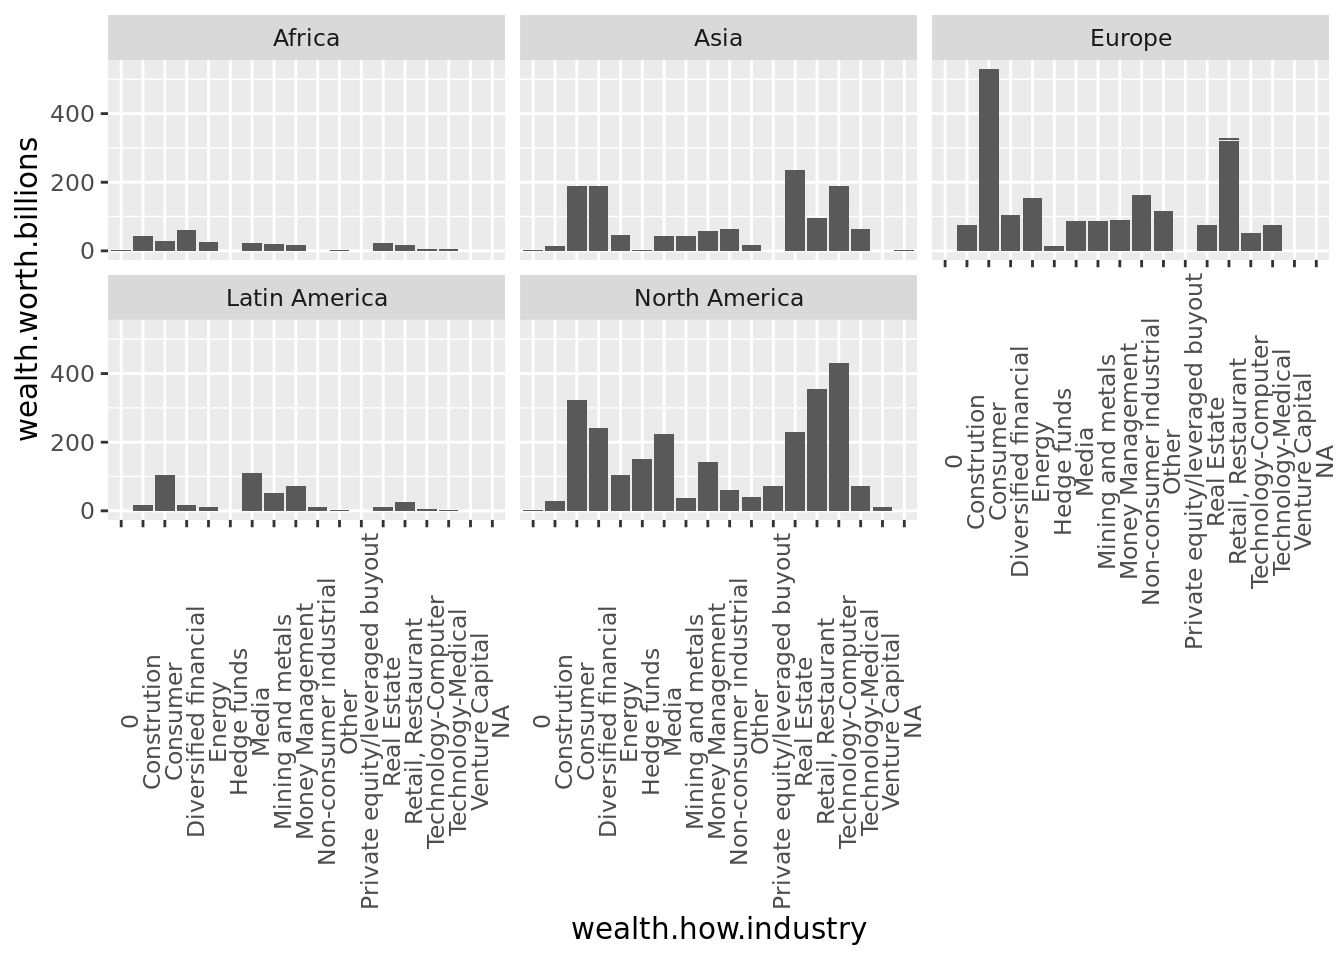
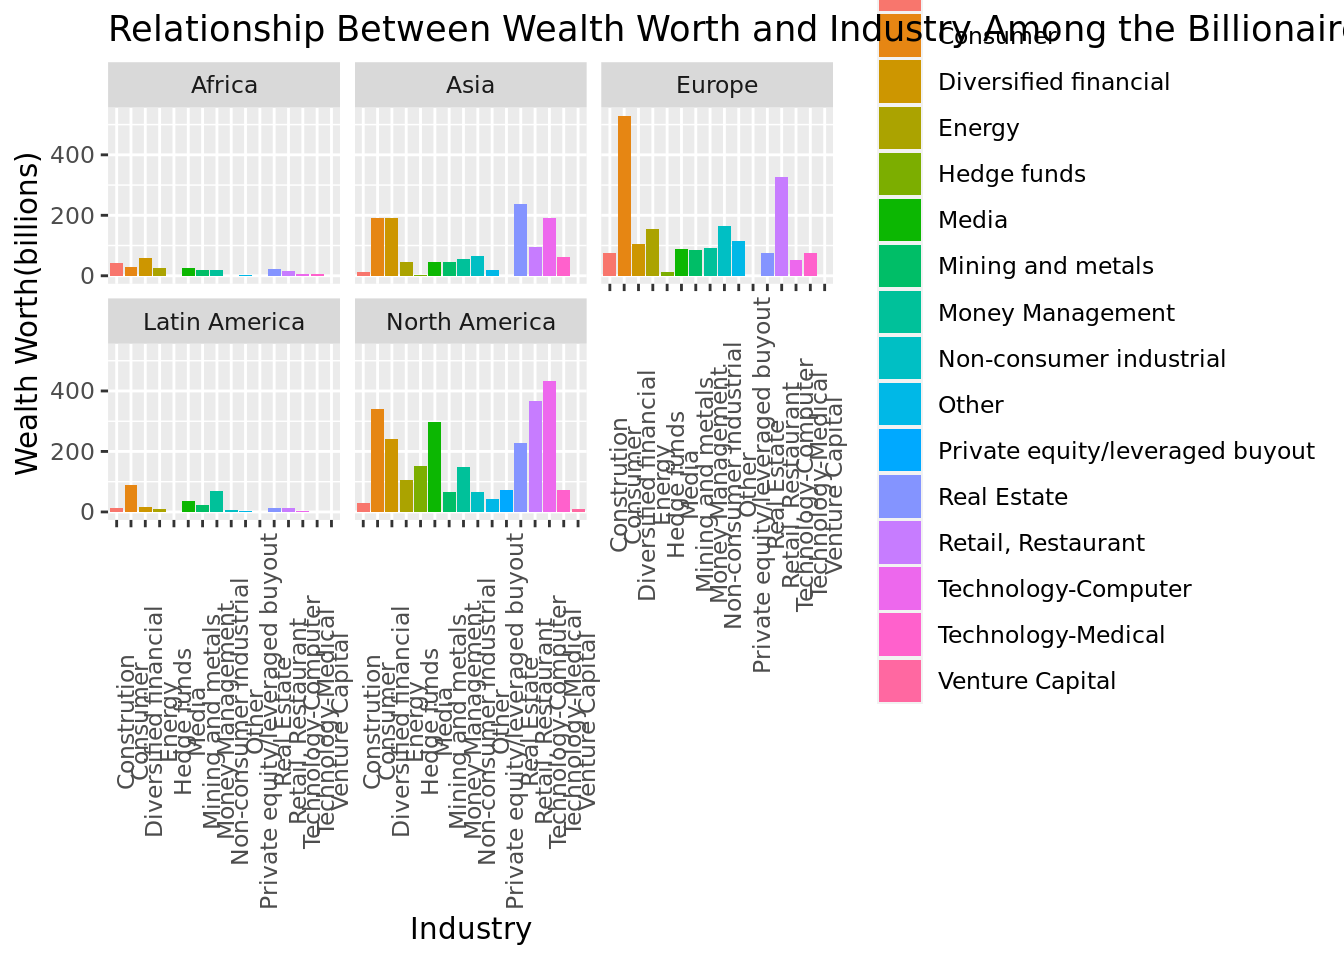
graphs

Changed region(s): [[0.0625, 0.0, 1.0, 1.0], [0.0, 0.1562, 0.0938, 0.5], [0.0312, 0.0938, 0.0938, 0.125]]

diff --git a/docs/report.html b/docs/report.html
@@ -216,35 +216,17 @@ lgl  (3): wealth.how.from emerging, wealth.how.was founder, wealth.how.was p...
 ℹ Specify the column types or set `show_col_types = FALSE` to quiet this message.</code></pre>
 </div>
 <div class="sourceCode cell-code" id="cb4"><pre class="sourceCode r code-with-copy"><code class="sourceCode r"><span id="cb4-1"><a href="#cb4-1" aria-hidden="true" tabindex="-1"></a>df_1 <span class="ot">&lt;-</span> billionaires<span class="sc">|&gt;</span></span>
-<span id="cb4-2"><a href="#cb4-2" aria-hidden="true" tabindex="-1"></a>  <span class="fu">filter</span>(location.citizenship <span class="sc">==</span> <span class="st">"Mexico"</span> <span class="sc">&amp;</span> location.region <span class="sc">==</span> <span class="st">"Latin America"</span> <span class="sc">&amp;</span> year <span class="sc">==</span> <span class="dv">2014</span>) <span class="sc">|&gt;</span></span>
-<span id="cb4-3"><a href="#cb4-3" aria-hidden="true" tabindex="-1"></a>  <span class="fu">select</span>(name, year, location.citizenship, location.region) <span class="sc">|&gt;</span></span>
-<span id="cb4-4"><a href="#cb4-4" aria-hidden="true" tabindex="-1"></a>  <span class="fu">mutate</span>(<span class="at">continent =</span> <span class="fu">if_else</span>(location.region <span class="sc">==</span> <span class="st">"Latin America"</span>, <span class="st">"North America"</span>,location.region))</span>
-<span id="cb4-5"><a href="#cb4-5" aria-hidden="true" tabindex="-1"></a></span>
-<span id="cb4-6"><a href="#cb4-6" aria-hidden="true" tabindex="-1"></a>df_2 <span class="ot">&lt;-</span>billionaires <span class="sc">|&gt;</span></span>
-<span id="cb4-7"><a href="#cb4-7" aria-hidden="true" tabindex="-1"></a>  <span class="fu">filter</span>(year <span class="sc">==</span> <span class="dv">2014</span>) <span class="sc">|&gt;</span></span>
-<span id="cb4-8"><a href="#cb4-8" aria-hidden="true" tabindex="-1"></a>  <span class="fu">select</span>(name, <span class="st">"wealth.worth in billions"</span>, wealth.how.industry, location.region, location.citizenship) <span class="sc">|&gt;</span></span>
-<span id="cb4-9"><a href="#cb4-9" aria-hidden="true" tabindex="-1"></a>  <span class="fu">rename_at</span>(<span class="st">"wealth.worth in billions"</span>, <span class="sc">~</span><span class="st">'wealth.worth.billions'</span>) <span class="sc">|&gt;</span></span>
-<span id="cb4-10"><a href="#cb4-10" aria-hidden="true" tabindex="-1"></a>  <span class="fu">mutate</span>(<span class="at">continent =</span> <span class="fu">if_else</span>(location.region <span class="sc">==</span> <span class="st">"East Asia"</span>, <span class="st">"Asia"</span>,</span>
-<span id="cb4-11"><a href="#cb4-11" aria-hidden="true" tabindex="-1"></a>                     <span class="fu">if_else</span>(location.region <span class="sc">==</span> <span class="st">"South Asia"</span>, <span class="st">"Asia"</span>,</span>
-<span id="cb4-12"><a href="#cb4-12" aria-hidden="true" tabindex="-1"></a>                     <span class="fu">if_else</span>(location.region <span class="sc">==</span> <span class="st">"Middle East/North Africa"</span>, <span class="st">"Africa"</span>,</span>
-<span id="cb4-13"><a href="#cb4-13" aria-hidden="true" tabindex="-1"></a>                     <span class="fu">if_else</span>(location.region <span class="sc">==</span> <span class="st">"Sub-Saharan Africa"</span>, <span class="st">"Africa"</span>, </span>
-<span id="cb4-14"><a href="#cb4-14" aria-hidden="true" tabindex="-1"></a>                             location.region)))))</span>
-<span id="cb4-15"><a href="#cb4-15" aria-hidden="true" tabindex="-1"></a></span>
-<span id="cb4-16"><a href="#cb4-16" aria-hidden="true" tabindex="-1"></a></span>
-<span id="cb4-17"><a href="#cb4-17" aria-hidden="true" tabindex="-1"></a>df_3 <span class="ot">&lt;-</span> <span class="fu">full_join</span>(df_1,df_2)</span></code><button title="Copy to Clipboard" class="code-copy-button"><i class="bi"></i></button></pre></div>
-<div class="cell-output cell-output-stderr">
-<pre><code>Joining, by = c("name", "location.citizenship", "location.region", "continent")</code></pre>
-</div>
-<div class="sourceCode cell-code" id="cb6"><pre class="sourceCode r code-with-copy"><code class="sourceCode r"><span id="cb6-1"><a href="#cb6-1" aria-hidden="true" tabindex="-1"></a>df_1 <span class="sc">|&gt;</span></span>
-<span id="cb6-2"><a href="#cb6-2" aria-hidden="true" tabindex="-1"></a>  <span class="fu">count</span>(continent)</span></code><button title="Copy to Clipboard" class="code-copy-button"><i class="bi"></i></button></pre></div>
-<div class="cell-output cell-output-stdout">
-<pre><code># A tibble: 1 × 2
-  continent         n
-  &lt;chr&gt;         &lt;int&gt;
-1 North America    16</code></pre>
-</div>
-<div class="sourceCode cell-code" id="cb8"><pre class="sourceCode r code-with-copy"><code class="sourceCode r"><span id="cb8-1"><a href="#cb8-1" aria-hidden="true" tabindex="-1"></a>df_2 <span class="sc">|&gt;</span></span>
-<span id="cb8-2"><a href="#cb8-2" aria-hidden="true" tabindex="-1"></a>  <span class="fu">count</span>(continent)</span></code><button title="Copy to Clipboard" class="code-copy-button"><i class="bi"></i></button></pre></div>
+<span id="cb4-2"><a href="#cb4-2" aria-hidden="true" tabindex="-1"></a>  <span class="fu">filter</span>(year <span class="sc">==</span> <span class="dv">2014</span>)<span class="sc">|&gt;</span></span>
+<span id="cb4-3"><a href="#cb4-3" aria-hidden="true" tabindex="-1"></a>  <span class="fu">select</span>(name, <span class="st">"wealth.worth in billions"</span>, wealth.how.industry, location.region, location.citizenship)<span class="sc">|&gt;</span></span>
+<span id="cb4-4"><a href="#cb4-4" aria-hidden="true" tabindex="-1"></a>  <span class="fu">rename_at</span>(<span class="st">"wealth.worth in billions"</span>, <span class="sc">~</span><span class="st">'wealth.worth.billions'</span>)<span class="sc">|&gt;</span></span>
+<span id="cb4-5"><a href="#cb4-5" aria-hidden="true" tabindex="-1"></a>  <span class="fu">mutate</span>(<span class="at">continent =</span> <span class="fu">if_else</span>(location.region <span class="sc">==</span> <span class="st">"East Asia"</span>, <span class="st">"Asia"</span>,</span>
+<span id="cb4-6"><a href="#cb4-6" aria-hidden="true" tabindex="-1"></a>                     <span class="fu">if_else</span>(location.region <span class="sc">==</span> <span class="st">"South Asia"</span>, <span class="st">"Asia"</span>,</span>
+<span id="cb4-7"><a href="#cb4-7" aria-hidden="true" tabindex="-1"></a>                     <span class="fu">if_else</span>(location.region <span class="sc">==</span> <span class="st">"Middle East/North Africa"</span>, <span class="st">"Africa"</span>,</span>
+<span id="cb4-8"><a href="#cb4-8" aria-hidden="true" tabindex="-1"></a>                     <span class="fu">if_else</span>(location.region <span class="sc">==</span> <span class="st">"Sub-Saharan Africa"</span>, <span class="st">"Africa"</span>, </span>
+<span id="cb4-9"><a href="#cb4-9" aria-hidden="true" tabindex="-1"></a>                     <span class="fu">if_else</span>(location.region <span class="sc">==</span> <span class="st">"Latin America"</span> <span class="sc">&amp;</span> location.citizenship <span class="sc">==</span> <span class="st">"Mexico"</span>, <span class="st">"North America"</span>,location.region))))))</span>
+<span id="cb4-10"><a href="#cb4-10" aria-hidden="true" tabindex="-1"></a></span>
+<span id="cb4-11"><a href="#cb4-11" aria-hidden="true" tabindex="-1"></a>df_1<span class="sc">|&gt;</span></span>
+<span id="cb4-12"><a href="#cb4-12" aria-hidden="true" tabindex="-1"></a>  <span class="fu">count</span>(continent)</span></code><button title="Copy to Clipboard" class="code-copy-button"><i class="bi"></i></button></pre></div>
 <div class="cell-output cell-output-stdout">
 <pre><code># A tibble: 5 × 2
   continent         n
@@ -252,32 +234,19 @@ lgl  (3): wealth.how.from emerging, wealth.how.was founder, wealth.how.was p...
 1 Africa           94
 2 Asia            413
 3 Europe          470
-4 Latin America   114
-5 North America   562</code></pre>
-</div>
-<div class="sourceCode cell-code" id="cb10"><pre class="sourceCode r code-with-copy"><code class="sourceCode r"><span id="cb10-1"><a href="#cb10-1" aria-hidden="true" tabindex="-1"></a>df_3 <span class="sc">|&gt;</span></span>
-<span id="cb10-2"><a href="#cb10-2" aria-hidden="true" tabindex="-1"></a>  <span class="fu">count</span>(continent)</span></code><button title="Copy to Clipboard" class="code-copy-button"><i class="bi"></i></button></pre></div>
-<div class="cell-output cell-output-stdout">
-<pre><code># A tibble: 5 × 2
-  continent         n
-  &lt;chr&gt;         &lt;int&gt;
-1 Africa           94
-2 Asia            413
-3 Europe          470
-4 Latin America   114
+4 Latin America    98
 5 North America   578</code></pre>
 </div>
 </div>
 <div class="cell">
-<div class="sourceCode cell-code" id="cb12"><pre class="sourceCode r code-with-copy"><code class="sourceCode r"><span id="cb12-1"><a href="#cb12-1" aria-hidden="true" tabindex="-1"></a>df_3 <span class="sc">|&gt;</span></span>
-<span id="cb12-2"><a href="#cb12-2" aria-hidden="true" tabindex="-1"></a>  <span class="fu">ggplot</span>(</span>
-<span id="cb12-3"><a href="#cb12-3" aria-hidden="true" tabindex="-1"></a>    <span class="fu">aes</span>(<span class="at">x =</span> wealth.how.industry, <span class="at">y =</span> wealth.worth.billions)) <span class="sc">+</span></span>
-<span id="cb12-4"><a href="#cb12-4" aria-hidden="true" tabindex="-1"></a>    <span class="fu">geom_col</span>() <span class="sc">+</span> </span>
-<span id="cb12-5"><a href="#cb12-5" aria-hidden="true" tabindex="-1"></a>  <span class="fu">facet_wrap</span>(<span class="st">"continent"</span>) <span class="sc">+</span></span>
-<span id="cb12-6"><a href="#cb12-6" aria-hidden="true" tabindex="-1"></a>  <span class="fu">theme</span>(<span class="at">axis.text.x =</span> <span class="fu">element_text</span>(<span class="at">angle =</span> <span class="dv">90</span>))</span></code><button title="Copy to Clipboard" class="code-copy-button"><i class="bi"></i></button></pre></div>
-<div class="cell-output cell-output-stderr">
-<pre><code>Warning: Removed 16 rows containing missing values (`position_stack()`).</code></pre>
-</div>
+<div class="sourceCode cell-code" id="cb6"><pre class="sourceCode r code-with-copy"><code class="sourceCode r"><span id="cb6-1"><a href="#cb6-1" aria-hidden="true" tabindex="-1"></a>df_1 <span class="sc">|&gt;</span></span>
+<span id="cb6-2"><a href="#cb6-2" aria-hidden="true" tabindex="-1"></a>  <span class="fu">filter</span>(wealth.how.industry <span class="sc">!=</span> <span class="dv">0</span>) <span class="sc">|&gt;</span></span>
+<span id="cb6-3"><a href="#cb6-3" aria-hidden="true" tabindex="-1"></a>  <span class="fu">ggplot</span>(</span>
+<span id="cb6-4"><a href="#cb6-4" aria-hidden="true" tabindex="-1"></a>    <span class="fu">aes</span>(<span class="at">x =</span> wealth.how.industry, <span class="at">y =</span> wealth.worth.billions, <span class="at">fill =</span> wealth.how.industry)) <span class="sc">+</span></span>
+<span id="cb6-5"><a href="#cb6-5" aria-hidden="true" tabindex="-1"></a>    <span class="fu">geom_col</span>() <span class="sc">+</span> </span>
+<span id="cb6-6"><a href="#cb6-6" aria-hidden="true" tabindex="-1"></a>  <span class="fu">facet_wrap</span>(<span class="st">"continent"</span>) <span class="sc">+</span></span>
+<span id="cb6-7"><a href="#cb6-7" aria-hidden="true" tabindex="-1"></a>  <span class="fu">theme</span>(<span class="at">axis.text.x =</span> <span class="fu">element_text</span>(<span class="at">angle =</span> <span class="dv">90</span>)) <span class="sc">+</span></span>
+<span id="cb6-8"><a href="#cb6-8" aria-hidden="true" tabindex="-1"></a>  <span class="fu">labs</span>(<span class="at">title =</span> <span class="st">"Relationship Between Wealth Worth and Industry Among the Billionaires in each Continent"</span>, <span class="at">x =</span> <span class="st">"Industry"</span>, <span class="at">y =</span> <span class="st">"Wealth Worth(billions)"</span>) </span></code><button title="Copy to Clipboard" class="code-copy-button"><i class="bi"></i></button></pre></div>
 <div class="cell-output-display">
 <p><img src="report_files/figure-html/graphs-1.png" class="img-fluid" width="672"></p>
 </div>

diff --git a/docs/proposal.html b/docs/proposal.html
@@ -2,7 +2,7 @@
 <html xmlns="http://www.w3.org/1999/xhtml" lang="en" xml:lang="en"><head>
 
 <meta charset="utf-8">
-<meta name="generator" content="quarto-1.2.335">
+<meta name="generator" content="quarto-1.1.251">
 
 <meta name="viewport" content="width=device-width, initial-scale=1.0, user-scalable=yes">
 
@@ -137,24 +137,19 @@ code span.wa { color: #60a0b0; font-weight: bold; font-style: italic; } /* Warni
           <div class="collapse navbar-collapse" id="navbarCollapse">
             <ul class="navbar-nav navbar-nav-scroll me-auto">
   <li class="nav-item">
-    <a class="nav-link" href="./index.html">
- <span class="menu-text">TEAM NAME</span></a>
+    <a class="nav-link" href="./index.html">TEAM NAME</a>
   </li>  
   <li class="nav-item">
-    <a class="nav-link active" href="./proposal.html" aria-current="page">
- <span class="menu-text">Proposal</span></a>
+    <a class="nav-link active" href="./proposal.html" aria-current="page">Proposal</a>
   </li>  
   <li class="nav-item">
-    <a class="nav-link" href="./presentation.pdf">
- <span class="menu-text">Presentation</span></a>
+    <a class="nav-link" href="./presentation.pdf">Presentation</a>
   </li>  
   <li class="nav-item">
-    <a class="nav-link" href="./report.html">
- <span class="menu-text">Report</span></a>
+    <a class="nav-link" href="./report.html">Report</a>
   </li>  
   <li class="nav-item">
-    <a class="nav-link" href="./about.html">
- <span class="menu-text">About</span></a>
+    <a class="nav-link" href="./about.html">About</a>
   </li>  
 </ul>
               <div id="quarto-search" class="" title="Search"></div>
@@ -208,7 +203,6 @@ code span.wa { color: #60a0b0; font-weight: bold; font-style: italic; } /* Warni
 <div class="quarto-title-meta">
 
     
-  
     
   </div>
   
@@ -560,24 +554,7 @@ window.document.addEventListener("DOMContentLoaded", function (event) {
     button.classList.add('code-copy-button-checked');
     var currentTitle = button.getAttribute("title");
     button.setAttribute("title", "Copied!");
-    let tooltip;
-    if (window.bootstrap) {
-      button.setAttribute("data-bs-toggle", "tooltip");
-      button.setAttribute("data-bs-placement", "left");
-      button.setAttribute("data-bs-title", "Copied!");
-      tooltip = new bootstrap.Tooltip(button, 
-        { trigger: "manual", 
-          customClass: "code-copy-button-tooltip",
-          offset: [0, -8]});
-      tooltip.show();    
-    }
     setTimeout(function() {
-      if (tooltip) {
-        tooltip.hide();
-        button.removeAttribute("data-bs-title");
-        button.removeAttribute("data-bs-toggle");
-        button.removeAttribute("data-bs-placement");
-      }
       button.setAttribute("title", currentTitle);
       button.classList.remove('code-copy-button-checked');
     }, 1000);
@@ -613,42 +590,24 @@ window.document.addEventListener("DOMContentLoaded", function (event) {
       return note.innerHTML;
     });
   }
-  const findCites = (el) => {
-    const parentEl = el.parentElement;
-    if (parentEl) {
-      const cites = parentEl.dataset.cites;
-      if (cites) {
-        return {
-          el,
-          cites: cites.split(' ')
-        };
-      } else {
-        return findCites(el.parentElement)
-      }
-    } else {
-      return undefined;
-    }
-  };
   var bibliorefs = window.document.querySelectorAll('a[role="doc-biblioref"]');
   for (var i=0; i<bibliorefs.length; i++) {
     const ref = bibliorefs[i];
-    const citeInfo = findCites(ref);
-    if (citeInfo) {
-      tippyHover(citeInfo.el, function() {
-        var popup = window.document.createElement('div');
-        citeInfo.cites.forEach(function(cite) {
-          var citeDiv = window.document.createElement('div');
-          citeDiv.classList.add('hanging-indent');
-          citeDiv.classList.add('csl-entry');
-          var biblioDiv = window.document.getElementById('ref-' + cite);
-          if (biblioDiv) {
-            citeDiv.innerHTML = biblioDiv.innerHTML;
-          }
-          popup.appendChild(citeDiv);
-        });
-        return popup.innerHTML;
+    const cites = ref.parentNode.getAttribute('data-cites').split(' ');
+    tippyHover(ref, function() {
+      var popup = window.document.createElement('div');
+      cites.forEach(function(cite) {
+        var citeDiv = window.document.createElement('div');
+        citeDiv.classList.add('hanging-indent');
+        citeDiv.classList.add('csl-entry');
+        var biblioDiv = window.document.getElementById('ref-' + cite);
+        if (biblioDiv) {
+          citeDiv.innerHTML = biblioDiv.innerHTML;
+        }
+        popup.appendChild(citeDiv);
       });
-    }
+      return popup.innerHTML;
+    });
   }
 });
 </script>

diff --git a/docs/index.html b/docs/index.html
@@ -2,7 +2,7 @@
 <html xmlns="http://www.w3.org/1999/xhtml" lang="en" xml:lang="en"><head>
 
 <meta charset="utf-8">
-<meta name="generator" content="quarto-1.2.335">
+<meta name="generator" content="quarto-1.1.251">
 
 <meta name="viewport" content="width=device-width, initial-scale=1.0, user-scalable=yes">
 
@@ -74,24 +74,19 @@ ul.task-list li input[type="checkbox"] {
           <div class="collapse navbar-collapse" id="navbarCollapse">
             <ul class="navbar-nav navbar-nav-scroll me-auto">
   <li class="nav-item">
-    <a class="nav-link active" href="./index.html" aria-current="page">
- <span class="menu-text">TEAM NAME</span></a>
+    <a class="nav-link active" href="./index.html" aria-current="page">TEAM NAME</a>
   </li>  
   <li class="nav-item">
-    <a class="nav-link" href="./proposal.html">
- <span class="menu-text">Proposal</span></a>
+    <a class="nav-link" href="./proposal.html">Proposal</a>
   </li>  
   <li class="nav-item">
-    <a class="nav-link" href="./presentation.pdf">
- <span class="menu-text">Presentation</span></a>
+    <a class="nav-link" href="./presentation.pdf">Presentation</a>
   </li>  
   <li class="nav-item">
-    <a class="nav-link" href="./report.html">
- <span class="menu-text">Report</span></a>
+    <a class="nav-link" href="./report.html">Report</a>
   </li>  
   <li class="nav-item">
-    <a class="nav-link" href="./about.html">
- <span class="menu-text">About</span></a>
+    <a class="nav-link" href="./about.html">About</a>
   </li>  
 </ul>
               <div id="quarto-search" class="" title="Search"></div>
@@ -120,7 +115,6 @@ ul.task-list li input[type="checkbox"] {
 <div class="quarto-title-meta">
 
     
-  
     
   </div>
   
@@ -173,24 +167,7 @@ window.document.addEventListener("DOMContentLoaded", function (event) {
     button.classList.add('code-copy-button-checked');
     var currentTitle = button.getAttribute("title");
     button.setAttribute("title", "Copied!");
-    let tooltip;
-    if (window.bootstrap) {
-      button.setAttribute("data-bs-toggle", "tooltip");
-      button.setAttribute("data-bs-placement", "left");
-      button.setAttribute("data-bs-title", "Copied!");
-      tooltip = new bootstrap.Tooltip(button, 
-        { trigger: "manual", 
-          customClass: "code-copy-button-tooltip",
-          offset: [0, -8]});
-      tooltip.show();    
-    }
     setTimeout(function() {
-      if (tooltip) {
-        tooltip.hide();
-        button.removeAttribute("data-bs-title");
-        button.removeAttribute("data-bs-toggle");
-        button.removeAttribute("data-bs-placement");
-      }
       button.setAttribute("title", currentTitle);
       button.classList.remove('code-copy-button-checked');
     }, 1000);
@@ -226,42 +203,24 @@ window.document.addEventListener("DOMContentLoaded", function (event) {
       return note.innerHTML;
     });
   }
-  const findCites = (el) => {
-    const parentEl = el.parentElement;
-    if (parentEl) {
-      const cites = parentEl.dataset.cites;
-      if (cites) {
-        return {
-          el,
-          cites: cites.split(' ')
-        };
-      } else {
-        return findCites(el.parentElement)
-      }
-    } else {
-      return undefined;
-    }
-  };
   var bibliorefs = window.document.querySelectorAll('a[role="doc-biblioref"]');
   for (var i=0; i<bibliorefs.length; i++) {
     const ref = bibliorefs[i];
-    const citeInfo = findCites(ref);
-    if (citeInfo) {
-      tippyHover(citeInfo.el, function() {
-        var popup = window.document.createElement('div');
-        citeInfo.cites.forEach(function(cite) {
-          var citeDiv = window.document.createElement('div');
-          citeDiv.classList.add('hanging-indent');
-          citeDiv.classList.add('csl-entry');
-          var biblioDiv = window.document.getElementById('ref-' + cite);
-          if (biblioDiv) {
-            citeDiv.innerHTML = biblioDiv.innerHTML;
-          }
-          popup.appendChild(citeDiv);
-        });
-        return popup.innerHTML;
+    const cites = ref.parentNode.getAttribute('data-cites').split(' ');
+    tippyHover(ref, function() {
+      var popup = window.document.createElement('div');
+      cites.forEach(function(cite) {
+        var citeDiv = window.document.createElement('div');
+        citeDiv.classList.add('hanging-indent');
+        citeDiv.classList.add('csl-entry');
+        var biblioDiv = window.document.getElementById('ref-' + cite);
+        if (biblioDiv) {
+          citeDiv.innerHTML = biblioDiv.innerHTML;
+        }
+        popup.appendChild(citeDiv);
       });
-    }
+      return popup.innerHTML;
+    });
   }
 });
 </script>
